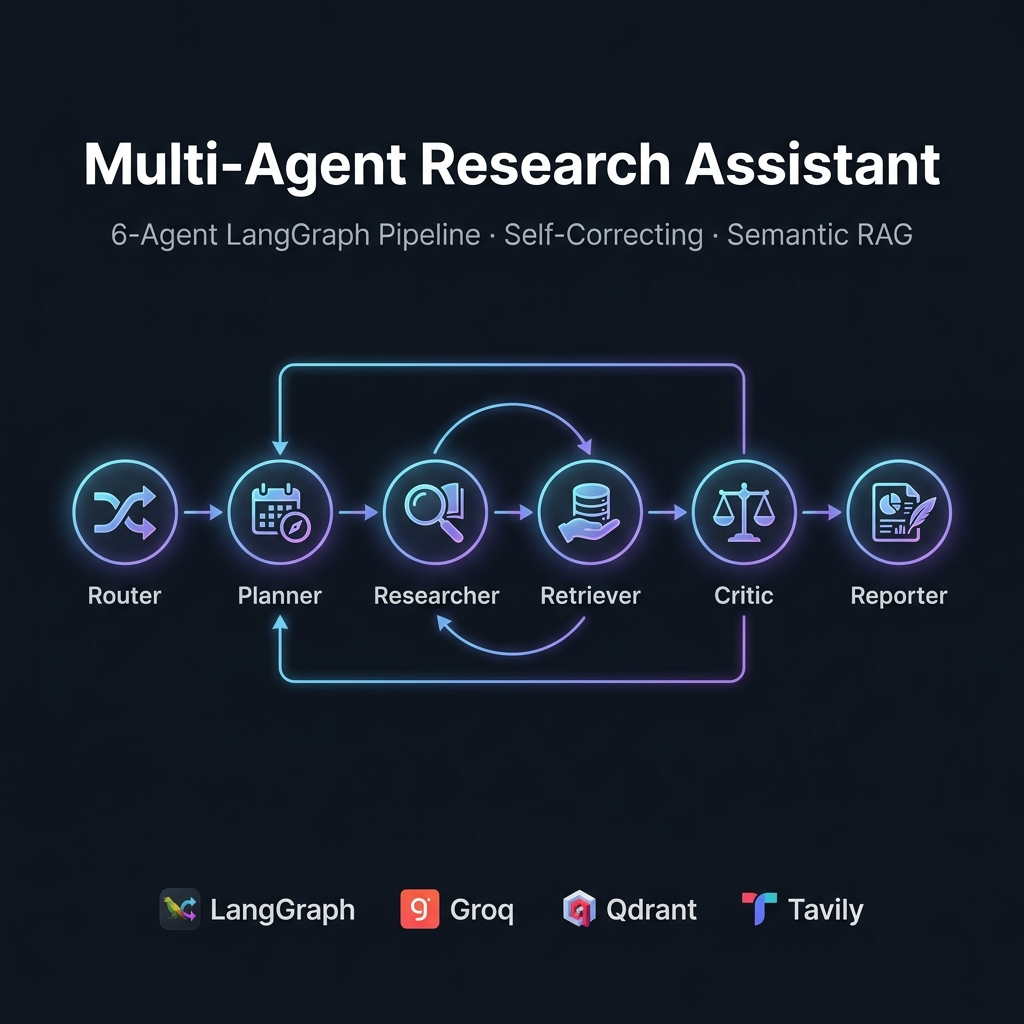
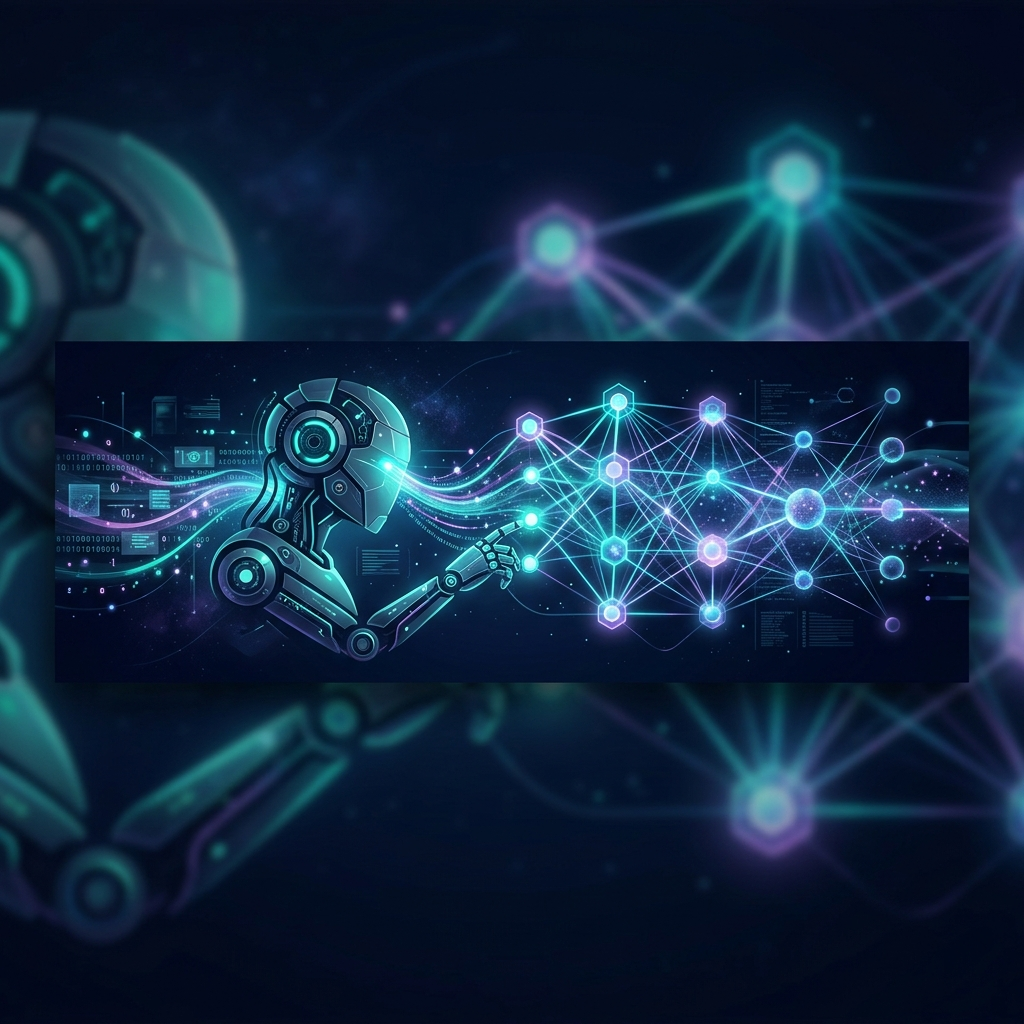
new

diff --git a/README.md b/README.md
@@ -23,7 +23,7 @@
 
 🔗 **[Live Demo →](https://multi-agent-research-assistant.onrender.com)**
 
-[**📖 How It Works**](#-architecture--workflow) · [**🚀 Quickstart**](#-quickstart) · [**💡 Features**](#-features) · [**📄 Sample Output**](#-sample-output) · [**🤝 Contributing**](docs/CONTRIBUTING.md)
+[**📖 How It Works**](#-architecture--workflow) · [**🚀 Quickstart**](#-quickstart) · [**💡 Features**](#-features) · [**📄 Sample Output**](#-sample-output)
 
 </div>
 
@@ -50,7 +50,7 @@
   </tr>
   <tr>
     <td>🔁 <strong>Self-Correcting Loop</strong></td>
-    <td>A Critic agent scores research quality using a <strong>hybrid score</strong> (7% LLM + 93% objective signals). If confidence is below <strong>0.8</strong>, it loops back for another research pass — automatically.</td>
+    <td>A Critic agent scores research quality using a <strong>hybrid score</strong> (60% LLM + 40% objective signals). If confidence is below <strong>0.8</strong>, it loops back for another research pass — automatically.</td>
   </tr>
   <tr>
     <td>🎭 <strong>Dynamic Tone</strong></td>
@@ -66,7 +66,7 @@
   </tr>
   <tr>
     <td>🙋 <strong>Doubt Box (Follow-ups)</strong></td>
-    <td>Ask specific questions about a generated report. The system strictly grounds answers in the report content without hallucinations.</td>
+    <td>Ask specific questions about a generated report. The system first checks the report, but will also use general knowledge to answer if the report lacks the information.</td>
   </tr>
   <tr>
     <td>⏸ <strong>Human-in-the-Loop (HitL)</strong></td>
@@ -82,7 +82,7 @@
 
 ## 📊 Research Quality Scoring Rubric
 
-Every research run is evaluated by a **hybrid scoring system** (7% LLM + 93% objective signals). The objective score is composed of 6 deterministic signals:
+Every research run is evaluated by a **hybrid scoring system** (60% LLM + 40% objective signals). The objective score is composed of 6 deterministic signals:
 
 | Signal | Weight | How It Works |
 |---|---|---|
@@ -98,7 +98,7 @@ Every research run is evaluated by a **hybrid scoring system** (7% LLM + 93% obj
 objective_score = (retrieval_relevance × 0.35) + (plan_coverage × 0.20) + (content_depth × 0.20)
                + (source_quality × 0.10) + (duplicate_penalty × 0.10) + (diversity × 0.05)
 
-hybrid_score   = (llm_score × 0.07) + (objective_score × 0.93)
+hybrid_score   = (llm_score × 0.60) + (objective_score × 0.40)
 ```
 
 > **Threshold:** A hybrid score of **≥ 0.8** is required to break the self-correction loop. If not met after 3 iterations, the pipeline proceeds with grounding safeguards.
@@ -126,7 +126,7 @@ flowchart TD
         B -- Requires Research --> C[📋 Planner\nBreaks into 4-5 sub-tasks]
         C --> D[🔍 Researcher\nParallel Tavily Web Search]
         D --> E[🗄 Retriever\nLocal Embed → Qdrant → Top-K Recall]
-        E --> F[🧐 Critic\nHybrid Score: 7% LLM + 93% Objective]
+        E --> F[🧐 Critic\nHybrid Score: 60% LLM + 40% Objective]
         F -- score < 0.8 AND iterations < 3 --> D
         F -- score ≥ 0.8 OR max iterations --> G[📝 Reporter\nTone-Aware Markdown Report]
     end
@@ -264,10 +264,15 @@ multi-agent-research-assistant/
 │   ├── critic.py        # 🧐 Hybrid quality scorer (LLM + objective signals)
 │   └── reporter.py      # 📝 Tone-aware markdown report writer (w/ strict grounding)
 ├── core/
+│   ├── cache.py         # Caching mechanism for API cost savings
+│   ├── config.py        # Environment variables and configuration
 │   ├── graph.py         # LangGraph nodes, edges & conditional routing (AsyncSqliteSaver)
-│   ├── state.py         # ResearchState TypedDict — shared agent memory
+│   ├── health.py        # System health and Qdrant startup verification
+│   ├── logger.py        # Structured console logging
+│   ├── metrics.py       # Observability and token tracking
+│   ├── report_history.py # SQLite database for archiving reports
 │   ├── scorer.py        # Objective scoring signals (Qdrant, length, sources)
-│   └── logger.py        # Structured console logging
+│   └── state.py         # ResearchState TypedDict — shared agent memory
 ├── .github/
 │   ├── workflows/ci.yml # GitHub Actions: pytest + ruff on every push
 │   └── ISSUE_TEMPLATE/  # Bug report & feature request templates
@@ -276,11 +281,6 @@ multi-agent-research-assistant/
 ├── assets/banner.png    # Repo banner
 ├── main.py              # CLI entry point
 ├── .env.example         # API key template
-├── docs/
-│   ├── CONTRIBUTING.md
-│   ├── CHANGELOG.md
-│   ├── DECISIONS.md
-│   └── PROJECT_DOCUMENTATION.md
 └── LICENSE
 ```
 
@@ -317,7 +317,7 @@ Tests are designed to mock all external APIs (Groq, Tavily, Qdrant) — no real 
 
 ## 🤝 Contributing
 
-Contributions are welcome! Please read [CONTRIBUTING.md](docs/CONTRIBUTING.md) first.
+Contributions are welcome!
 
 1. Fork the repo
 2. Create a branch: `git checkout -b feature/your-feature`
